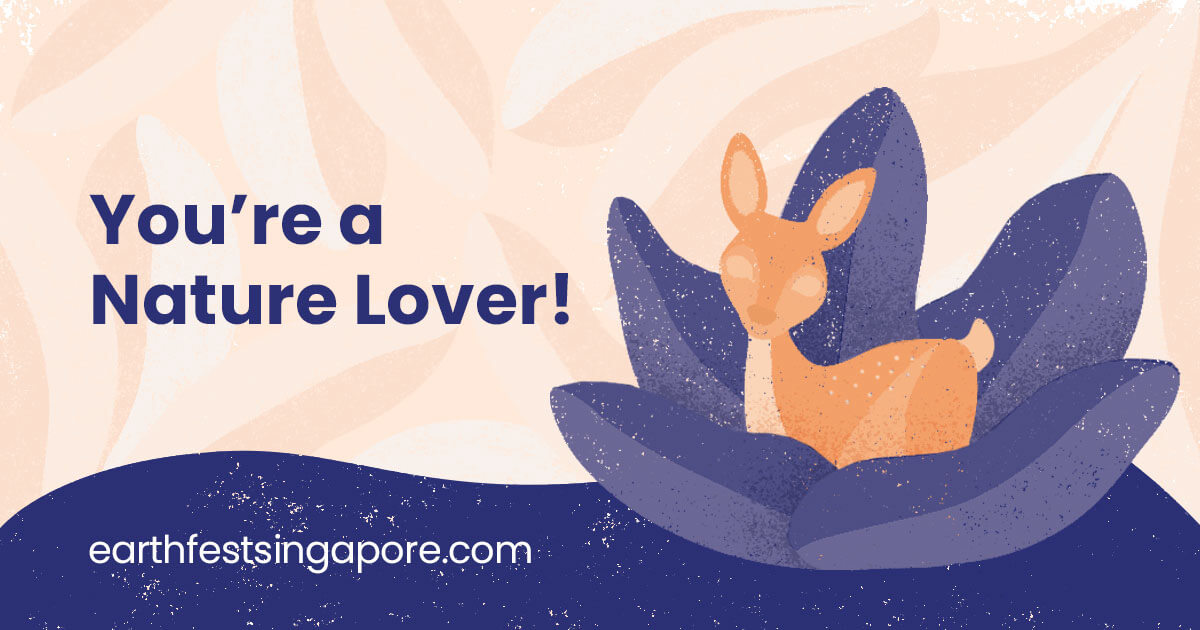
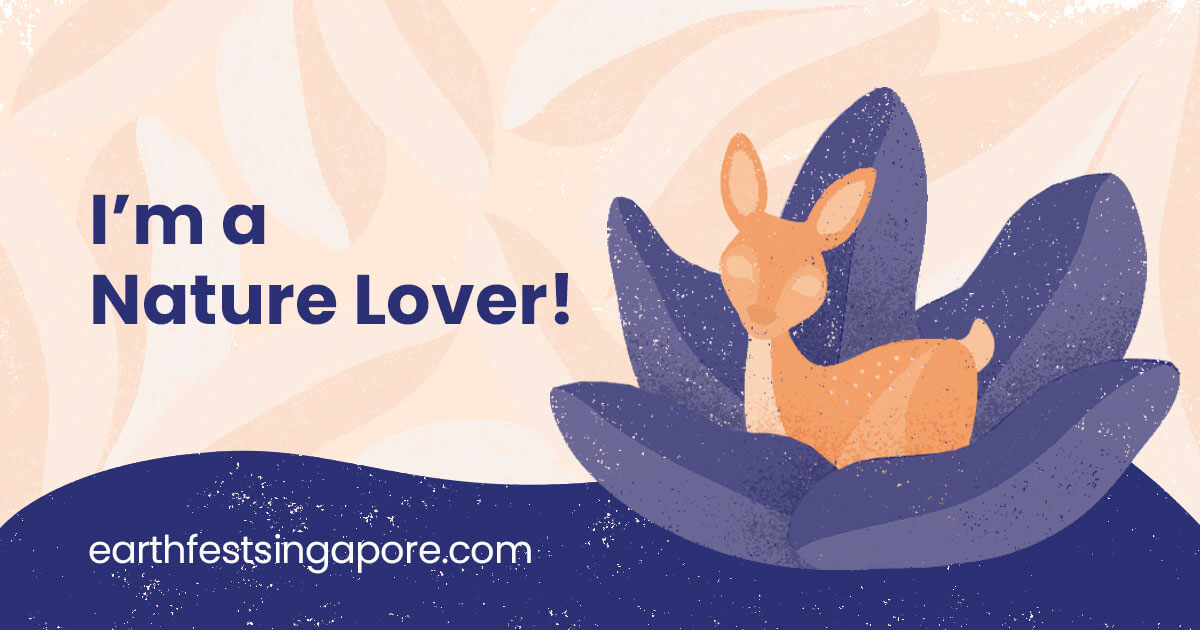
Update all images from “You’re” to “I’m”

Changed region(s): [[0.0617, 0.3016, 0.3392, 0.3921]]

diff --git a/public/results/co2-positive.html b/public/results/co2-positive.html
@@ -2,7 +2,7 @@
   <head>
       <title>You're a Carbon Fighter!</title>
       <meta http-equiv="refresh" content="0;URL='/earthlife'" />
-      <meta property="og:title" content="I am a Carbon Fighter! What are you?" />
+      <meta property="og:title" content="I'm a Carbon Fighter! What are you?" />
       <meta property="og:description" content="See how you're doing based on the 6 living habits of Earthlife." />
       <meta property="og:image" content="http://earthfestsingapore.com/earthlife/images/06_result_copositive.jpg" />
       <meta property="og:url" content="http://earthfestsingapore.com/earthlife/results/co2-positive.html" />
@@ -13,7 +13,7 @@
       <div class="navbar">
         <p>Earthlife</p>
       </div>
-      <img class="hero-image" src="../images/06_result_copositive.jpg" alt="You're a Carbon Fighter!">
+      <img class="hero-image" src="../images/06_result_copositive.jpg" alt="I'm a Carbon Fighter!">
       <a href="/earthlife" class="start-quiz">Take me to the quiz!</a>
   </body>
 </html>

diff --git a/public/results/zero-waste.html b/public/results/zero-waste.html
@@ -2,7 +2,7 @@
   <head>
       <title>You're a Zero Waste Hero!</title>
       <meta http-equiv="refresh" content="0;URL='/earthlife'" />
-      <meta property="og:title" content="I am a Zero Waste Hero! What are you?" />
+      <meta property="og:title" content="I'm a Zero Waste Hero! What are you?" />
       <meta property="og:description" content="See how you're doing based on the 6 living habits of Earthlife." />
       <meta property="og:image" content="http://earthfestsingapore.com/earthlife/images/02_result_zerowaste.jpg" />
       <meta property="og:url" content="http://earthfestsingapore.com/earthlife/results/zero-waste.html" />
@@ -13,7 +13,7 @@
       <div class="navbar">
         <p>Earthlife</p>
       </div>
-      <img class="hero-image" src="../images/02_result_zerowaste.jpg" alt="You're a Zero Waste Hero!">
+      <img class="hero-image" src="../images/02_result_zerowaste.jpg" alt="I'm a Zero Waste Hero!">
       <a href="/earthlife" class="start-quiz">Take me to the quiz!</a>
   </body>
 </html>

diff --git a/public/results/plant-based-diet.html b/public/results/plant-based-diet.html
@@ -2,7 +2,7 @@
   <head>
       <title>You're a Plant Warrior!</title>
       <meta http-equiv="refresh" content="0;URL='/earthlife'" />
-      <meta property="og:title" content="I am a Plant Warrior! What are you?" />
+      <meta property="og:title" content="I'm a Plant Warrior! What are you?" />
       <meta property="og:description" content="See how you're doing based on the 6 living habits of Earthlife." />
       <meta property="og:image" content="http://earthfestsingapore.com/earthlife/images/01_result_plantbased.jpg" />
       <meta property="og:url" content="http://earthfestsingapore.com/earthlife/results/plant-based-diet.html" />
@@ -13,7 +13,7 @@
       <div class="navbar">
         <p>Earthlife</p>
       </div>
-      <img class="hero-image" src="../images/01_result_plantbased.jpg" alt="You're a Plant Warrior!">
+      <img class="hero-image" src="../images/01_result_plantbased.jpg" alt="I'm a Plant Warrior!">
       <a href="/earthlife" class="start-quiz">Take me to the quiz!</a>
   </body>
 </html>

diff --git a/public/results/biophilia.html b/public/results/biophilia.html
@@ -2,7 +2,7 @@
   <head>
       <title>You're a Nature Lover!</title>
       <meta http-equiv="refresh" content="0;URL='/earthlife'" />
-      <meta property="og:title" content="I am a Nature Lover! What are you?" />
+      <meta property="og:title" content="I'm a Nature Lover! What are you?" />
       <meta property="og:description" content="See how you're doing based on the 6 living habits of Earthlife." />
       <meta property="og:image" content="http://earthfestsingapore.com/earthlife/images/03_result_biophilia.jpg" />
       <meta property="og:url" content="http://earthfestsingapore.com/earthlife/results/biophilia.html" />
@@ -13,7 +13,7 @@
       <div class="navbar">
         <p>Earthlife</p>
       </div>
-      <img class="hero-image" src="../images/03_result_biophilia.jpg" alt="You're a Nature Lover!">
+      <img class="hero-image" src="../images/03_result_biophilia.jpg" alt="I'm a Nature Lover!">
       <a href="/earthlife" class="start-quiz">Take me to the quiz!</a>
   </body>
 </html>

diff --git a/public/results/advocacy.html b/public/results/advocacy.html
@@ -2,7 +2,7 @@
   <head>
       <title>You're a Change Maker!</title>
       <meta http-equiv="refresh" content="0;URL='/earthlife'" />
-      <meta property="og:title" content="I am a Change Maker! What are you?" />
+      <meta property="og:title" content="I'm a Change Maker! What are you?" />
       <meta property="og:description" content="See how you're doing based on the 6 living habits of Earthlife." />
       <meta property="og:image" content="http://earthfestsingapore.com/earthlife/images/04_result_advocacy.jpg" />
       <meta property="og:url" content="http://earthfestsingapore.com/earthlife/results/advocacy.html" />
@@ -13,7 +13,7 @@
       <div class="navbar">
         <p>Earthlife</p>
       </div>
-      <img class="hero-image" src="../images/04_result_advocacy.jpg" alt="You're a Change Maker!">
+      <img class="hero-image" src="../images/04_result_advocacy.jpg" alt="I'm a Change Maker!">
       <a href="/earthlife" class="start-quiz">Take me to the quiz!</a>
   </body>
 </html>

diff --git a/public/results/minimalism.html b/public/results/minimalism.html
@@ -2,7 +2,7 @@
   <head>
       <title>You're a Minimalist!</title>
       <meta http-equiv="refresh" content="0;URL='/earthlife'" />
-      <meta property="og:title" content="I am a Minimalist! What are you?" />
+      <meta property="og:title" content="I'm a Minimalist! What are you?" />
       <meta property="og:description" content="See how you're doing based on the 6 living habits of Earthlife." />
       <meta property="og:image" content="http://earthfestsingapore.com/earthlife/images/05_result_minimalism.jpg" />
       <meta property="og:url" content="http://earthfestsingapore.com/earthlife/results/minimalism.html" />
@@ -13,7 +13,7 @@
       <div class="navbar">
         <p>Earthlife</p>
       </div>
-      <img class="hero-image" src="../images/05_result_minimalism.jpg" alt="You're a Minimalist!">
+      <img class="hero-image" src="../images/05_result_minimalism.jpg" alt="I'm a Minimalist!">
       <a href="/earthlife" class="start-quiz">Take me to the quiz!</a>
   </body>
 </html>
